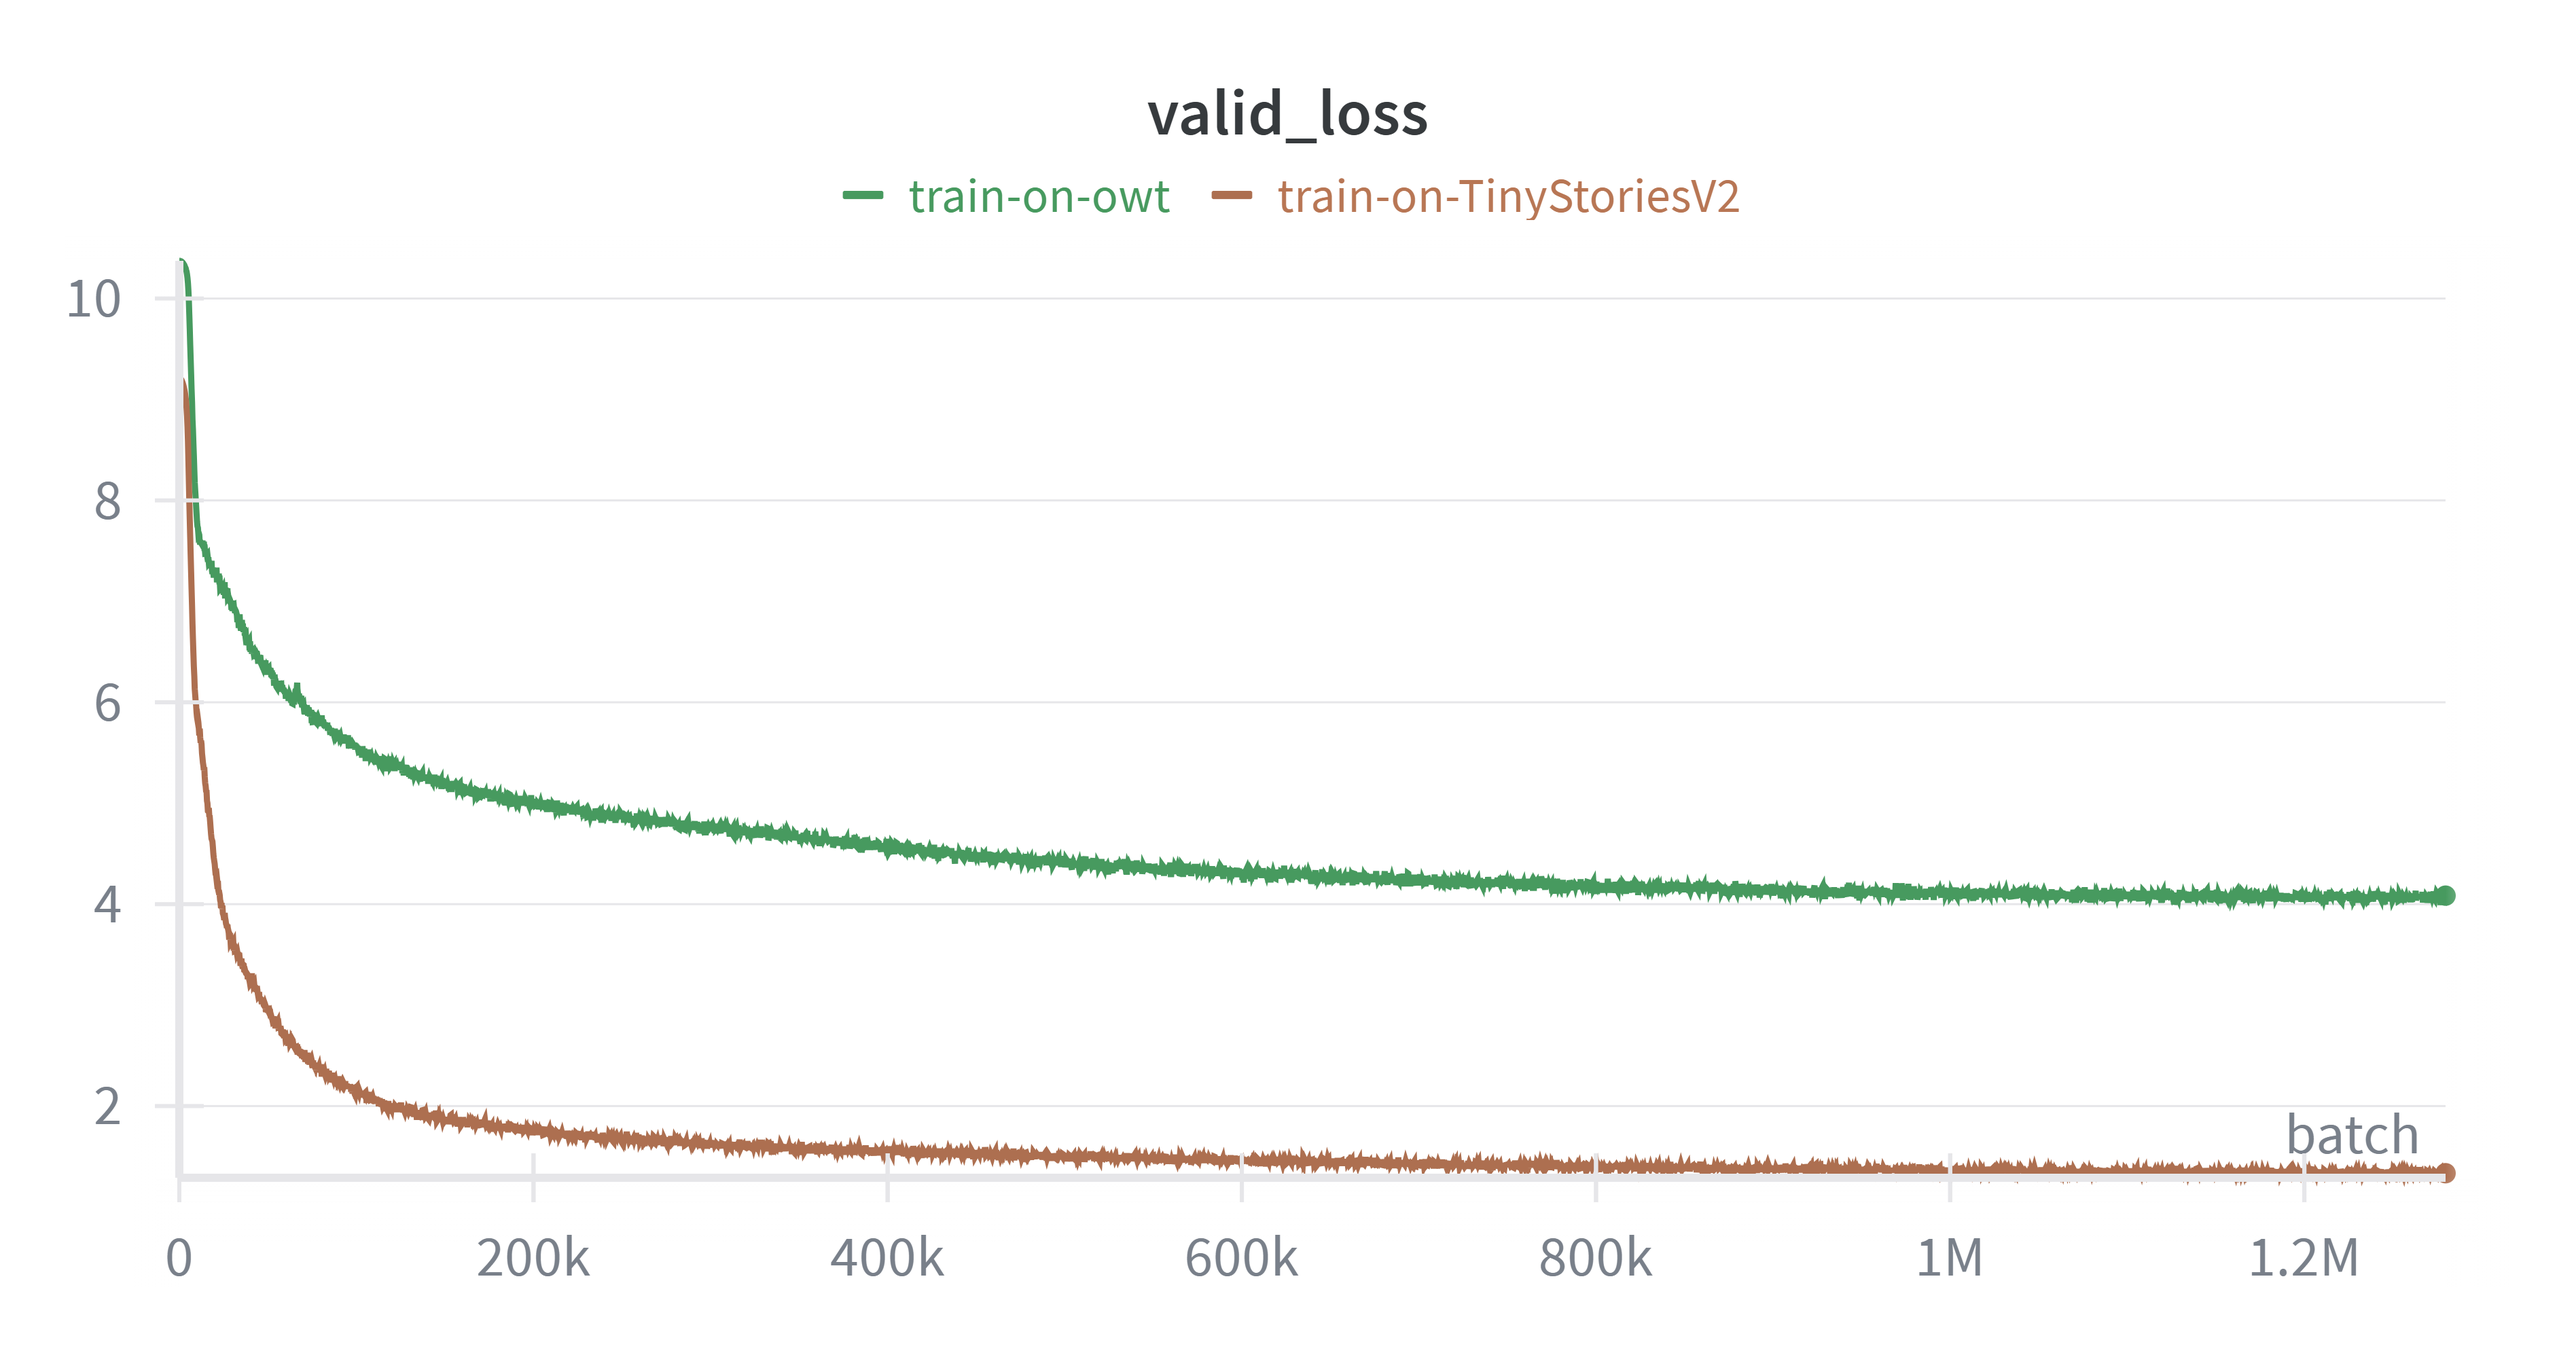
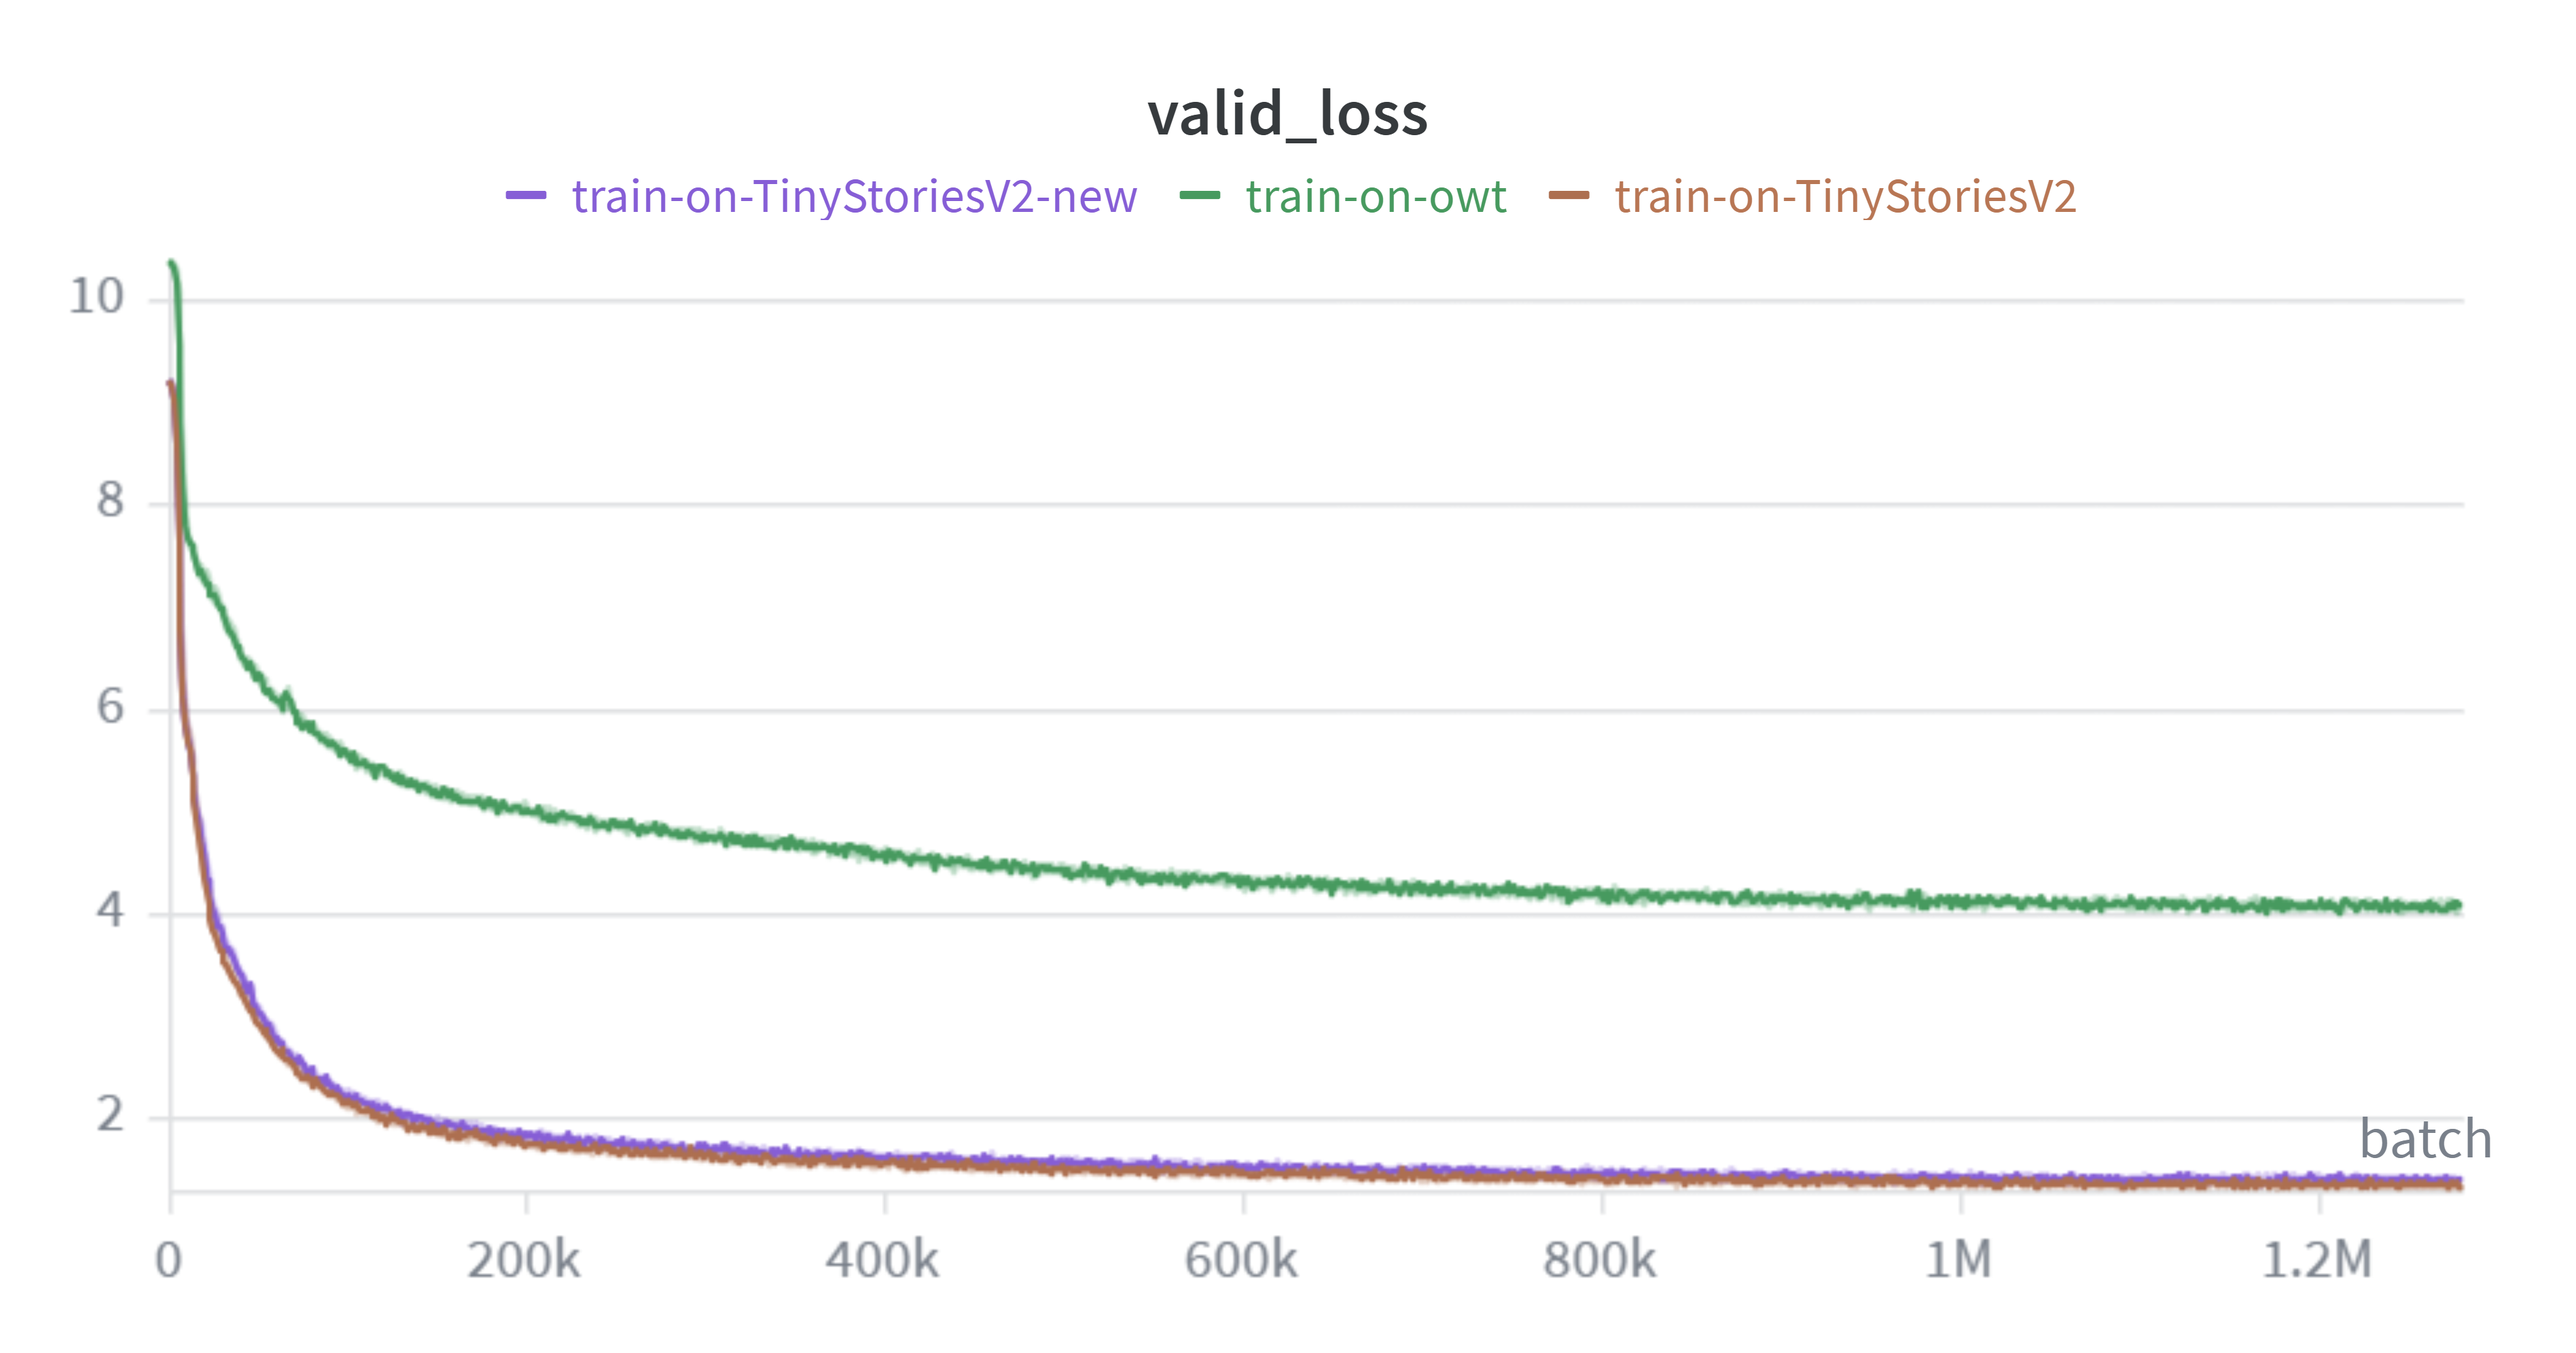
Redo model training on tinystories

Changed region(s): [[0.0311, 0.1867, 0.9647, 0.9649], [0.2178, 0.1245, 0.8091, 0.1556], [0.4668, 0.9026, 0.4979, 0.9649]]

diff --git a/solutions/check_endoftext_in_datasets.py b/solutions/check_endoftext_in_datasets.py
@@ -1,0 +1,14 @@
+import os
+
+import numpy as np
+
+
+def memmap(file_path, dtype):
+    file_size_bytes = os.path.getsize(file_path)
+    num_elements = file_size_bytes // np.dtype(dtype).itemsize
+    return np.memmap(file_path, dtype=dtype, mode='r', shape=(num_elements,))
+
+
+token_id = memmap('./data/TinyStoriesV2-GPT4-valid.bin', np.uint16)
+print(f'{0 in token_id = }')
+print(token_id[ :100])

diff --git a/solutions/tokenize_dataset.py b/solutions/tokenize_dataset.py
@@ -42,7 +42,7 @@ def docs_iter(
 
 def main():
     dataset_names = [
-        'TinyStoriesV2-GPT4-',
+        # 'TinyStoriesV2-GPT4-',
         'owt_'
     ]
 

diff --git a/writeup.md b/writeup.md
@@ -209,6 +209,8 @@ The impact of RMSNorm: make it easy to train
 ### 7.4 Problem (main_experiment)
 ![](figures/ts-owt-compare.png)
 
+(Here I found a bug in tokenizer calling which tokenizes <|endoftext|> as ordinary word. I have fixed it (commit 6ccd99c), but no redo foregoing experients. This is because the bug hardly affect valid loss.)
+
 Model fail to fit owt.
 
 ```bash
@@ -218,7 +220,14 @@ uv run solutions/trainer.py --config-path configs/owt-config.yaml --title 'train
 
 ### 7.2 Problem (generate)
 ```bash
-uv run solutions/generate_text.py -c configs/std-config.yaml -t data/bpe-TinyStoriesV2-GPT4-train.pkl <prompt>
-uv run solutions/generate_text.py -c configs/owt-config.yaml -t data/bpe-owt_train.pkl <prompt>
+uv run solutions/generate_text.py -c configs/std-config.yaml -t data/bpe-TinyStoriesV2-GPT4-train.pkl -m 256 <prompt>
+uv run solutions/generate_text.py -c configs/owt-config.yaml -t data/bpe-owt_train.pkl -m 256 <prompt>
 ```
 
+```bash
+$ uv run solutions/generate_text.py -c configs/std-config.yaml -t data/bpe-TinyStoriesV2-GPT4-train.pkl -m 256 'Sam got up early this morning'
+ and flew away with his friends. 
+After flying back, all of the birds were happy to see Sam and wished him luck to use his shiny license again. Sam's friends thanked him for taking them to see how he helped them, and Sam was the first to use his shiny license to help him reach out the wind, speed, and play in the air.
+The moral of the story is that when we all support someone, we can always find a way to help out and use your own special ways to use your things.
+<|endoftext|>
+```
